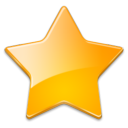
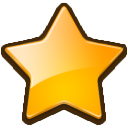
ajout d'icones pour indiquer les lieux importants sur la carte

Changed region(s): [[0.0, 0.0, 1.0, 1.0]]

diff --git a/PistusApp/CarteViewController.m b/PistusApp/CarteViewController.m
@@ -110,7 +110,7 @@
     _fondTexteDistance.hidden=true;
     
     // Création du marqueur
-    marqueur = [[UIButton alloc] initWithFrame:CGRectMake(0,0,15,15)];
+    marqueur = [[UIButton alloc] initWithFrame:CGRectMake(0,0,16,16)];
     [marqueur setImage:[UIImage imageNamed:@"marker2.png"] forState:UIControlStateNormal];
     [marqueur addTarget:self action:@selector(afficherDetailsPourMarqueur:)
       forControlEvents:UIControlEventTouchUpInside];
@@ -124,6 +124,24 @@
     [self.view insertSubview:ciblage aboveSubview:_scrollView];
     [ciblage addTarget:self action:@selector(ciblerPosition)
                forControlEvents:UIControlEventTouchUpInside];
+    
+    // Ajout de marqueurs pour les lieux importants
+    float X = _scrollView.contentSize.width/7452*3424 - _scrollView.contentOffset.x + _scrollView.frame.origin.x;
+    float Y = _scrollView.contentSize.height/3174*1710 - _scrollView.contentOffset.y + _scrollView.frame.origin.y;
+    _etoile_Rez.center = CGPointMake(X,Y);
+    X = _scrollView.contentSize.width/7452*3195 - _scrollView.contentOffset.x + _scrollView.frame.origin.x;
+    Y = _scrollView.contentSize.height/3174*2115 - _scrollView.contentOffset.y + _scrollView.frame.origin.y;
+    _etoile_Pat.center = CGPointMake(X,Y);
+    X = _scrollView.contentSize.width/7452*3742 - _scrollView.contentOffset.x + _scrollView.frame.origin.x;
+    Y = _scrollView.contentSize.height/3174*1820 - _scrollView.contentOffset.y + _scrollView.frame.origin.y;
+    _etoile_Luge.center = CGPointMake(X,Y);
+    
+    [_etoile_Rez addTarget:self action:@selector(afficherDetailsPourMarqueur:)
+         forControlEvents:UIControlEventTouchUpInside];
+    [_etoile_Pat addTarget:self action:@selector(afficherDetailsPourMarqueur:)
+          forControlEvents:UIControlEventTouchUpInside];
+    [_etoile_Luge addTarget:self action:@selector(afficherDetailsPourMarqueur:)
+          forControlEvents:UIControlEventTouchUpInside];
 }
 
 - (void)didReceiveMemoryWarning {
@@ -170,7 +188,7 @@
     // Pate de la bulle
     UIImageView *pateBulle = [[UIImageView alloc] initWithImage:[UIImage imageNamed:@"pate_bulle.png"]];
     [pateBulle setFrame: CGRectMake(sender.center.x-11,sender.frame.origin.y-10,22,10)];
-    [self.view insertSubview:pateBulle aboveSubview:_scrollView];
+    [self.view insertSubview:pateBulle aboveSubview:imageView];
     
     // Titre "Vous êtes ici"
     UILabel *titre = [[UILabel alloc] init];
@@ -209,6 +227,8 @@
     [nomPiste removeFromSuperview];
     [titre removeFromSuperview];
     [pateBulle removeFromSuperview];
+    
+    //NSArray *lieuxImportants = [NSArray arrayWithObjects: @"Résidence Plein Sud", @"Patinoire",@"Verdon Express /nLuge sur rails",nil];
 }
 
 -(void) effacerBulle
@@ -241,6 +261,15 @@
         float Y = _scrollView.contentSize.height/3174*y - _scrollView.contentOffset.y + _scrollView.frame.origin.y;
         marqueur.center = CGPointMake(X,Y);
     }
+    float X = _scrollView.contentSize.width/7452*3424 - _scrollView.contentOffset.x + _scrollView.frame.origin.x;
+    float Y = _scrollView.contentSize.height/3174*1710 - _scrollView.contentOffset.y + _scrollView.frame.origin.y;
+    _etoile_Rez.center = CGPointMake(X,Y);
+    X = _scrollView.contentSize.width/7452*3195 - _scrollView.contentOffset.x + _scrollView.frame.origin.x;
+    Y = _scrollView.contentSize.height/3174*2115 - _scrollView.contentOffset.y + _scrollView.frame.origin.y;
+    _etoile_Pat.center = CGPointMake(X,Y);
+    X = _scrollView.contentSize.width/7452*3742 - _scrollView.contentOffset.x + _scrollView.frame.origin.x;
+    Y = _scrollView.contentSize.height/3174*1820 - _scrollView.contentOffset.y + _scrollView.frame.origin.y;
+    _etoile_Luge.center = CGPointMake(X,Y);
 }
 
 /*

diff --git a/PistusApp/CarteViewController.h b/PistusApp/CarteViewController.h
@@ -22,6 +22,10 @@
 @property (weak, nonatomic) IBOutlet UILabel *texteDistance;
 @property (weak, nonatomic) IBOutlet UIView *fondTexteDistance;
 
+@property (weak, nonatomic) IBOutlet UIButton *etoile_Rez;
+@property (weak, nonatomic) IBOutlet UIButton *etoile_Pat;
+@property (weak, nonatomic) IBOutlet UIButton *etoile_Luge;
+
 - (UIView *)viewForZoomingInScrollView:(UIScrollView *)scrollView;
 
 @end
